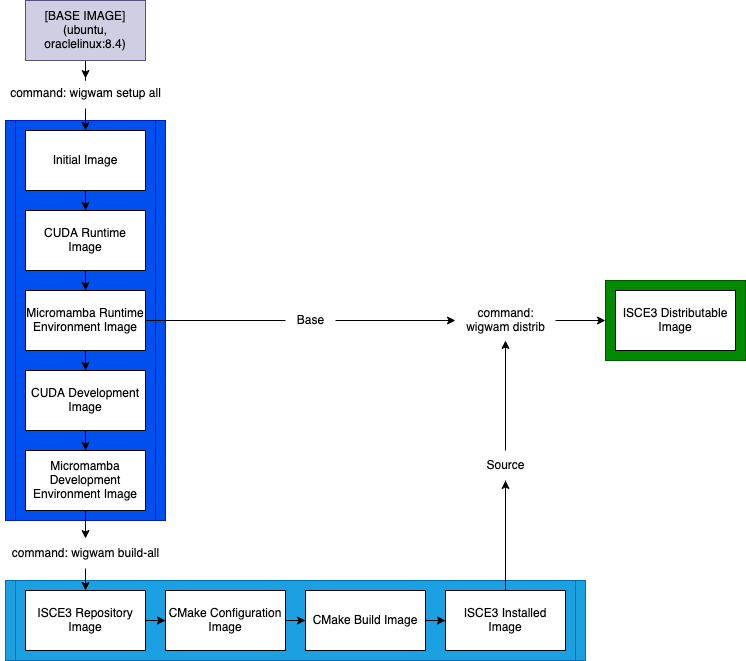
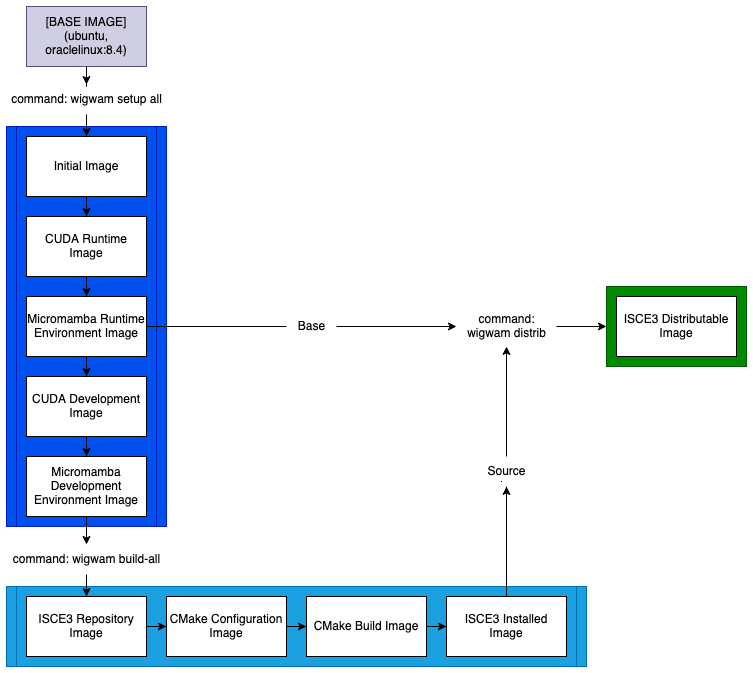
Documentation improvements
+ Updated "distributable" command to "distrib" in docs

Changed region(s): [[0.0, 0.0, 0.8016, 1.0], [0.7708, 0.4236, 1.0, 0.5446], [0.4008, 0.4539, 0.4316, 0.5144]]

diff --git a/README.md b/README.md
@@ -45,9 +45,9 @@ The WIGWAM interface implements a three-command process for building the ISCE3 d
 - setup all
 - build-all
   - (test)
-- distributable
+- distrib
 
-The three-step process of generating the ISCE3 distributable is as follows: The setup-all step, the build-all step, and the distributable step. The setup-all step creates the stack of images which form the runtime and development environments for ISCE3 from some base image. The build-all step takes in the final "dev environment" image produced by the last step and acquires and installs the ISCE3 repository in a stack of images. Finally, the deployable step copies the installed ISCE3 framework from its image generated by the build-all step into the slimmer runtime environment image from the setup-all step to create a final, slim ISCE3 distributable image. These will be explained in further detail below.
+The three-step process of generating the ISCE3 distributable is as follows: The setup-all step, the build-all step, and the distrib step. The setup-all step creates the stack of images which form the runtime and development environments for ISCE3 from some base image. The build-all step takes in the final "dev environment" image produced by the last step and acquires and installs the ISCE3 repository in a stack of images. Finally, the deployable step copies the installed ISCE3 framework from its image generated by the build-all step into the slimmer runtime environment image from the setup-all step to create a final, slim ISCE3 distributable image. These will be explained in further detail below.
 
 For users who need to tailor a more specific build, this process is split into subcommands later in this document.
 
@@ -109,9 +109,9 @@ Once the ISCE3 framework is installed to an image, the installed ctest unit test
 **--compress-output:** If used, will compress the ctest outputs.  
 **--quiet-fail:** If used, will output less verbosely on unit test failure.
 
-## Distributable: Create the ISCE3 Distributable Image
+## Distrib: Create the ISCE3 Distributable Image
 
-    python -m wigwam distributable
+    python -m wigwam distrib
         --base (-b) BASE_TAG
         --source-tag (-s) SOURCE_TAG
         --tag (-t) IMAGE_TAG
@@ -130,7 +130,7 @@ Many of the optional build arguments are not necessary to complete the ISCE3 dis
 
     python -m wigwam setup all
     python -m wigwam build-all -b wigwam-setup-mamba-dev --copy-path {path/to/isce3_repo}
-    python -m wigwam distributable -b wigwam-setup-mamba-runtime -s wigwam-build-installed
+    python -m wigwam distrib -b wigwam-setup-mamba-runtime -s wigwam-build-installed
 
 ### Build From Online ISCE3 Repository
 
@@ -439,7 +439,7 @@ Builds an image which has ISCE3 installed to the "/app" directory which has also
 
 See the [Test section above.](test-run-optional-unit-tests)
 
-See the [Distributable section above.](#distributable-create-the-isce3-distributable-image)
+See the [Distrib section above.](#distrib-create-the-isce3-distributable-image)
 
 # Final Notes
 
